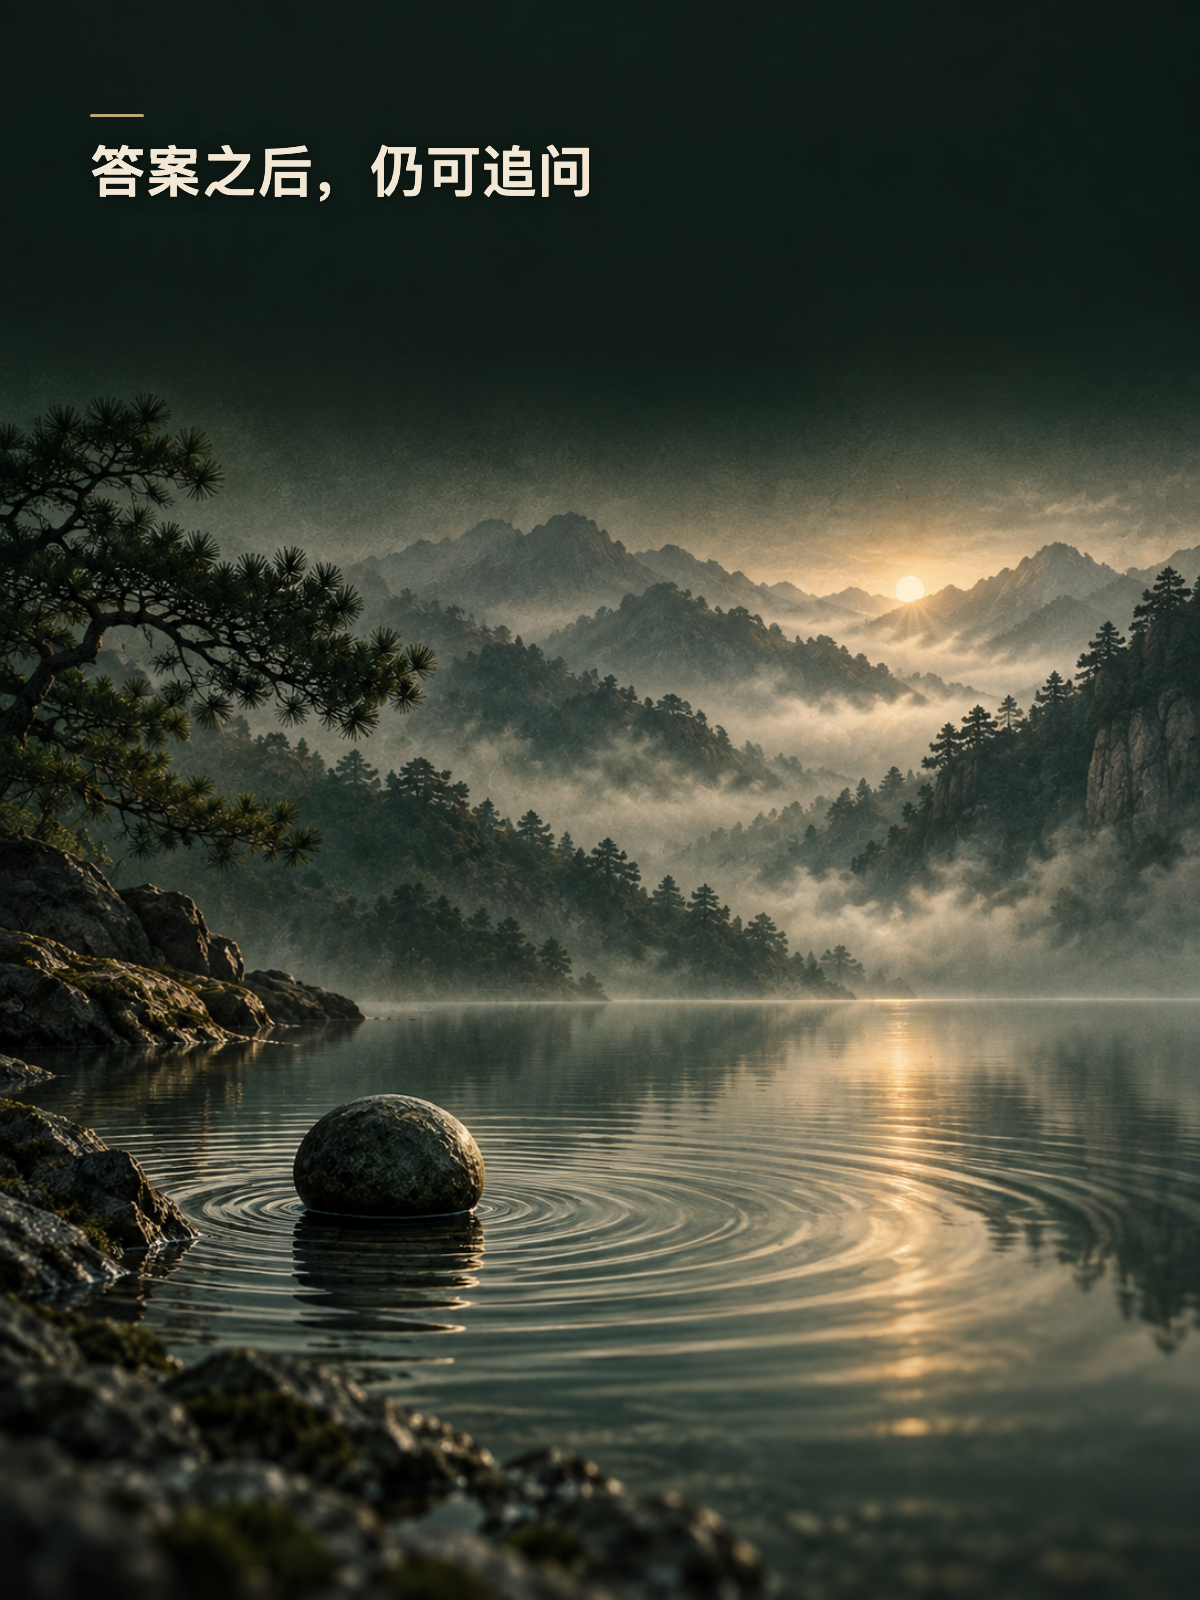
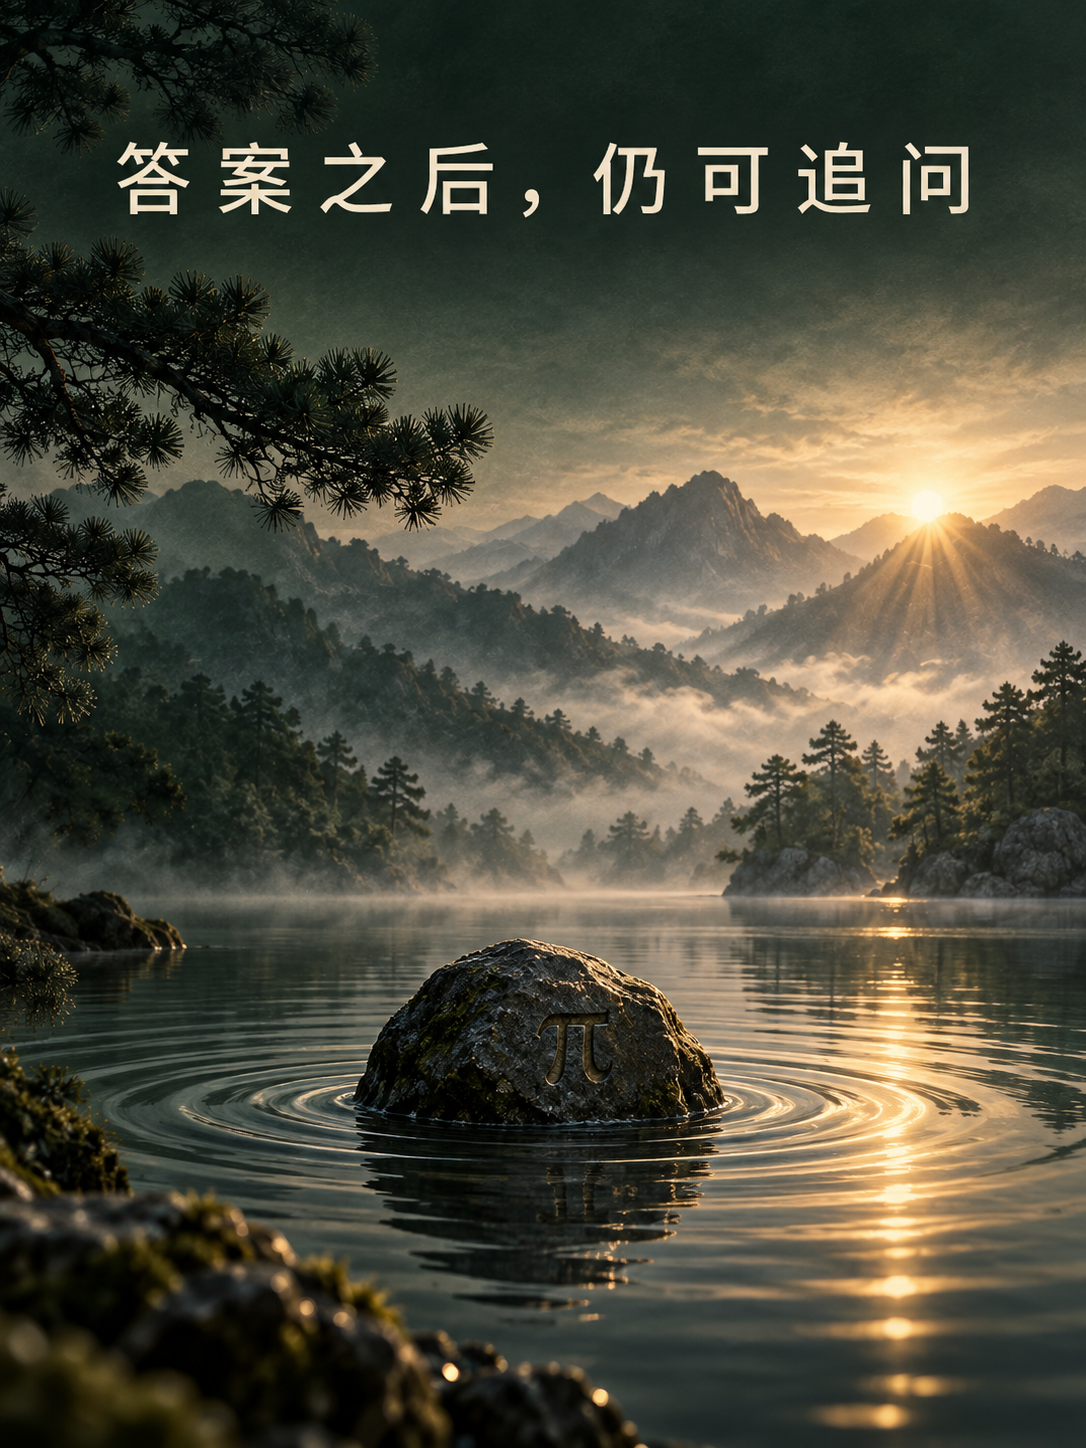
Generate article visuals with embedded text

diff --git a/guides/image-style.md b/guides/image-style.md
@@ -34,8 +34,9 @@
 
 - **封面必须准确显示文章完整标题**，以文章正式标题为准，逐字保留标点、专名和特殊符号。可选短副题不是必需项。
 - **每张正文配图必须显示一条关键词或短句**，从对应段落和作者已表达的观点中提炼。各图文案应具体且互不重复，不另造结论或未经确认的佛教教义，也不重复文章标题。
-- 生成底图前先确定每张图的确切文案与其对应段落。优先生成无字底图、为文字预留留白，再用可靠的矢量/排版层加入准确中文；用清晰克制的字体、足够对比度和适合缩略图的字号，延续青松绿、暖象牙和少量旧铜的配色。文字不得遮挡主体、表情、手势或关键细节。
-- 若直接由图像模型绘制文字，文案必须短，并逐字检查准确性与可读性；出现错字、乱码或伪字就重做或改用准确排版层，不交付有误内容。原尺寸与缩略图都要检查易读性。
+- 文字必须在图像生成阶段由图像模型直接画入成品，成为 PNG 本身的一部分。禁止先生成无字底图后再用 SVG、HTML、Canvas、矢量/排版层或其他后期手段叠字，也不把文字拆成独立图层。
+- 生成前确定每张图的确切文案与对应段落，在提示词中逐字引用，并说明位置、字体感、层级、对比度和留白。使用清晰克制、易读的中文字体感，延续青松绿、暖象牙和少量旧铜的配色；文字不得遮挡主体、表情、手势或关键细节，也不得擅自改写、增删。
+- 生成后逐字检查简繁、标点、专名、特殊符号和可读性；出现错字、乱码、伪字或多余文字时，修改提示词并重新生成，不得后期叠字修补。原尺寸与缩略图都要检查易读性。最终分享的图片文件本身必须含有文字。
 - 不得生成乱码书法、伪经文、伪造佛教文字、水印或未经确认的引文。经文和佛教引文只在文章原文提供且已确认准确时使用。
 
 ## 生成提示词模板
@@ -45,7 +46,7 @@
 ```text
 围绕文章《[标题]》的核心体会“[一句话主题]”创作一张微信公众号[封面 / 正文配图]。
 画面内容：[具体场景、主体和构图]。视觉表达安静、清透、当代、克制，具有观照与内在宁静的气息；沿用 README 头图配色：深青松绿/绿黑的沉静底色、灰苔绿与石色过渡、暖象牙米和淡香槟色自然受光、少量旧铜暖褐；使用[光线、材质]，保留充足留白，细节自然，不做说教式表达。
-底图不生成文字。最终排版文案（必须准确添加）：[封面填写文章完整标题；正文图填写对应段落的关键词或短句]。为文案预留清晰留白；最终中文由可靠排版层叠加，确保逐字准确、缩略图可读且不遮挡主体。底图不要出现任何其他字母、文字、伪字或水印。
+请在图像生成阶段直接将以下文字清晰地画入成品图像（不是后期叠加）：[封面填写文章完整标题；正文图填写对应段落的关键词或短句]。文字必须逐字准确，仅出现指定文案，不得改写、增删或出现其他字母、文字、伪字或水印。使用端正易读的中文字体感，把文案放在预留留白处，确保缩略图可读、不遮挡主体，并与画面自然融合。
 避免陈词滥调和符号堆叠，不要乱码、伪经文、未经确认的引文、水印或边框。
 画幅比例：[封面 2.35:1 横向 / 正文图 3:4 纵向]。
 ```
